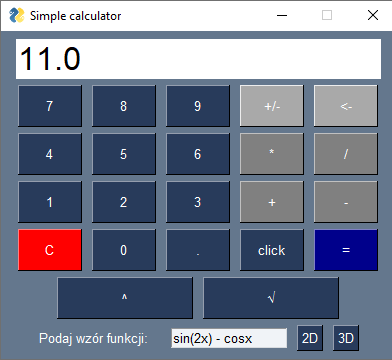
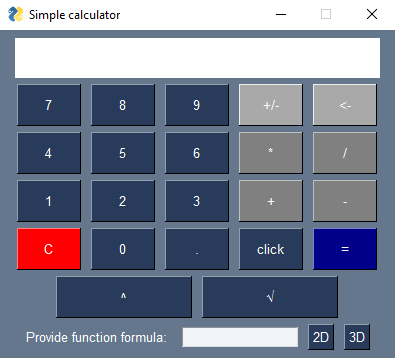
readme update

diff --git a/calculator/calculatorgui.py b/calculator/calculatorgui.py
@@ -12,7 +12,7 @@ LAYOUT = [
     [sg.Button('1', size=C_BTN_SIZE),sg.Button('2', size=C_BTN_SIZE),sg.Button('3', size=C_BTN_SIZE),sg.Button('+', size=C_BTN_SIZE, button_color='gray') , sg.Button('-', size=C_BTN_SIZE, button_color='gray')],
     [sg.Button('C', size=C_BTN_SIZE, button_color='red'), sg.Button('0', size=C_BTN_SIZE),sg.Button('.', size=C_BTN_SIZE),sg.Button('click', size=C_BTN_SIZE), sg.Button('=', size=C_BTN_SIZE, button_color='darkblue')],
     [sg.Button('^', size=(16,2)), sg.Button('√', size=(16,2))],
-    [sg.Text('Podaj wzór funkcji: ',size=(15,1)), sg.InputText(size=(16,1)), sg.Button("2D"),  sg.Button("3D")],
+    [sg.Text('Provide function formula: ',size=(18,1)), sg.InputText(size=(16,1)), sg.Button("2D"),  sg.Button("3D")],
 ]
 
 class CalculatorGUI:

diff --git a/readme.MD b/readme.MD
@@ -1,0 +1,36 @@
+# Simple calculator with plots of functions
+## Table of contents
+* [General info](#general-info)
+* [Setup](#setup)
+* [Run project](#run-project)
+* [Run tests](#run-tests)
+* [Sample screenshots](#sample-screenshots)
+* [Technologies](#technologies)
+## General info
+The goal of this project was to implement a working simple calculator with capability to display plot of any 2D or 3D function.
+
+It's possible thanks to wolframalphaAPI
+
+## Setup
+In main folder install all dependecies using:
+```bash
+pip install -r requirements.txt
+```
+## Run project
+Go to calculator directory and run:
+```bash
+python main.py
+```
+## Run tests
+Go to tests directory and run:
+```bash
+python -m unittest unit_tests.py
+```
+## Screenshots
+### Main application window
+![Main application window](readme_images/main_window.png)
+### Sample plots of functions:
+![Plot of sin(2x)-cos(x)](readme_images/function_plot.png) ![Plot of z=sqrt(x^2+y^2)](readme_images/function_plot1.png)
+## Technologies
+Project is created with:
+* Python 3.11.2
